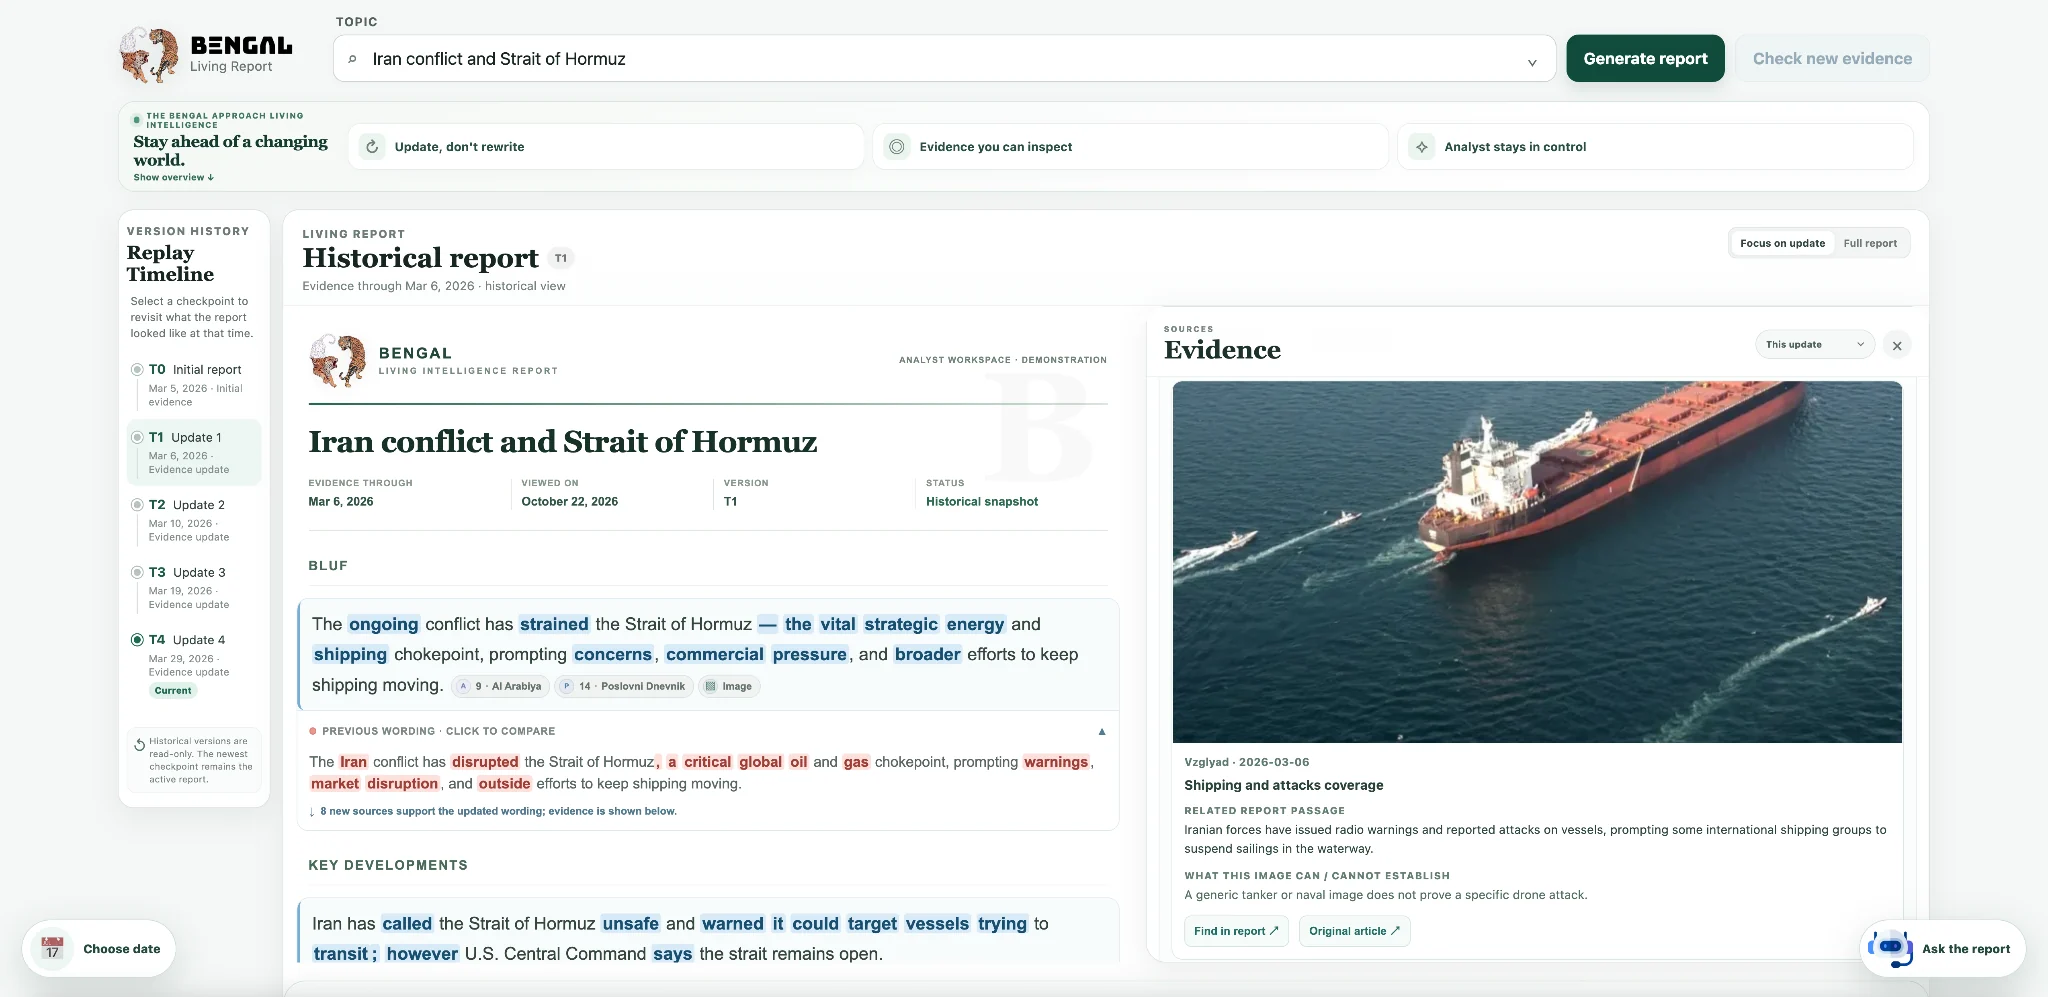
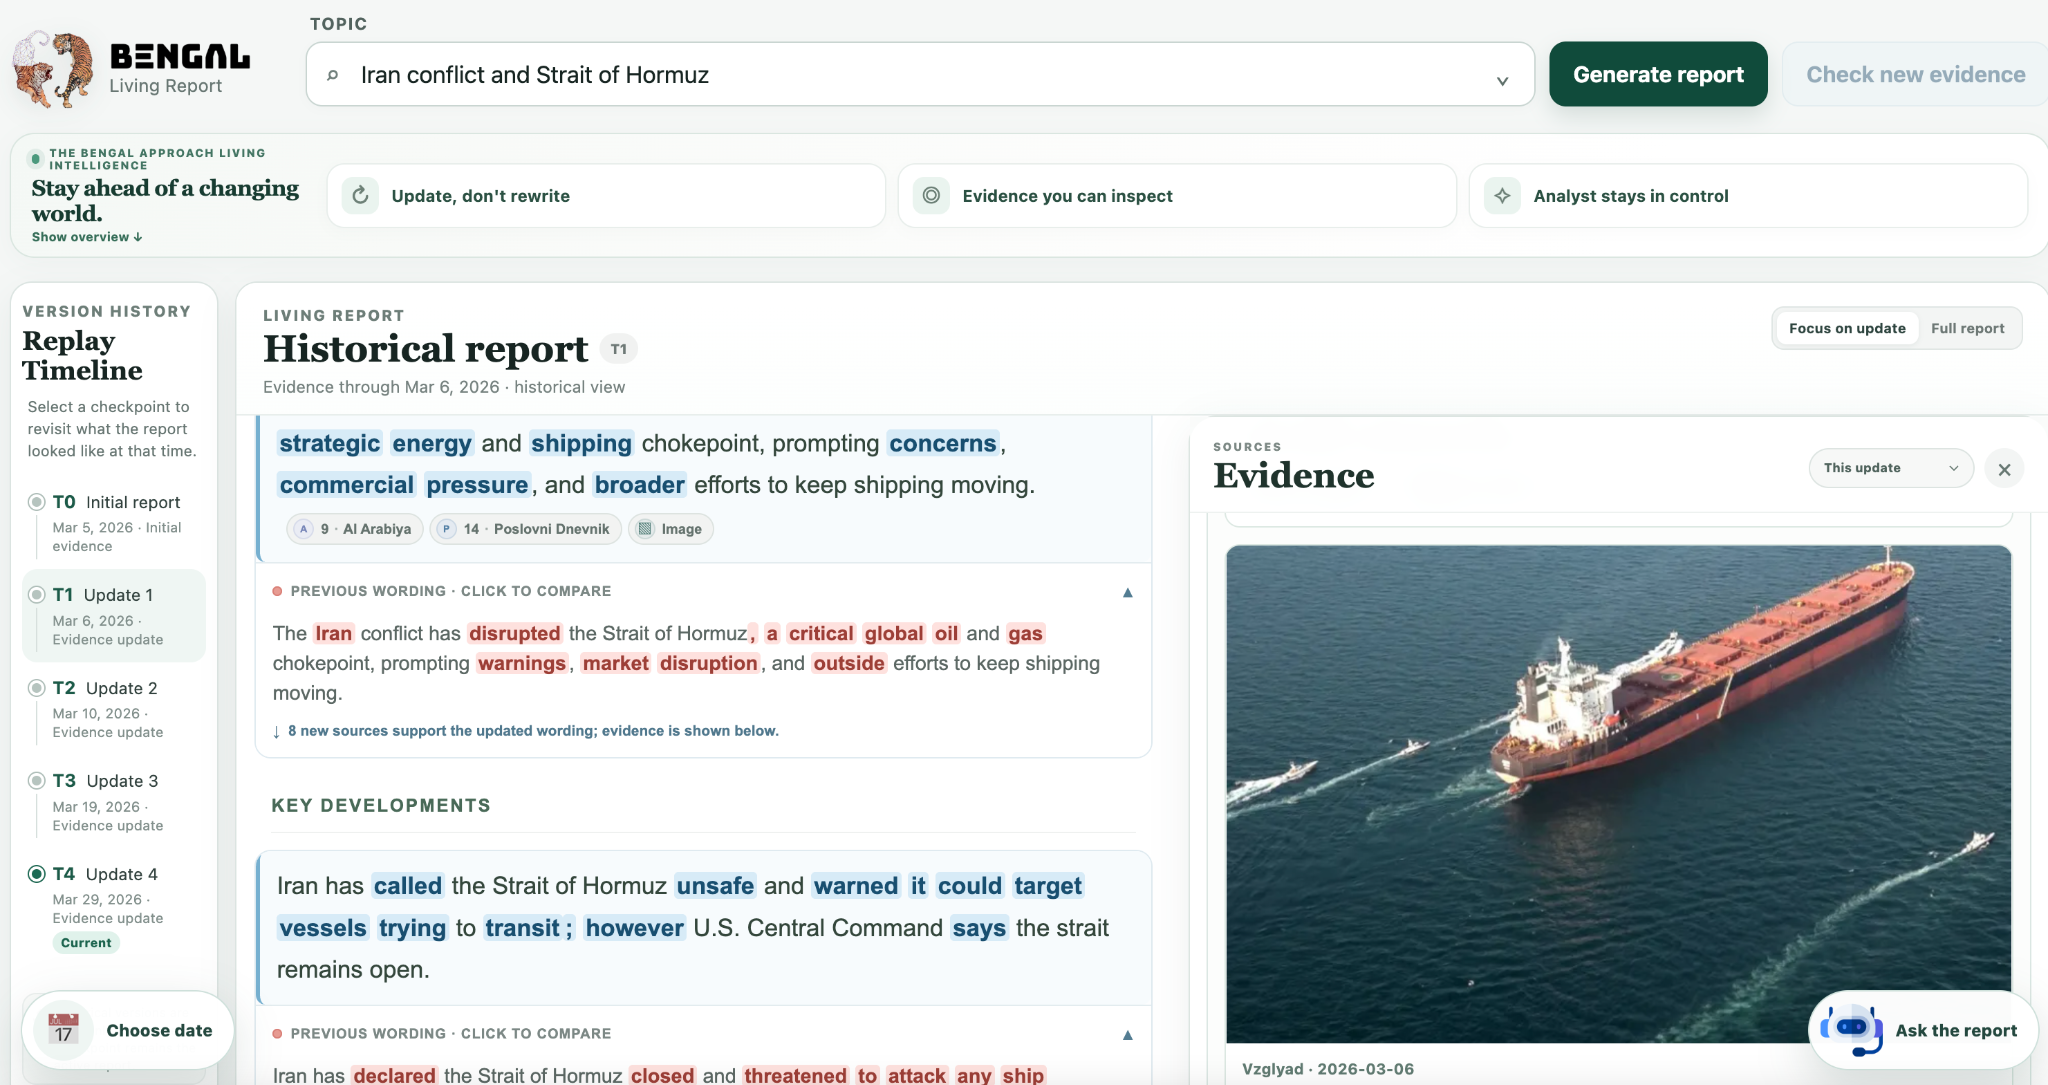
Refresh multilingual and multimodal demonstration screenshots

diff --git a/demo.html b/demo.html
@@ -1,4 +1,4 @@
-<!doctype html><html lang="en"><head><meta charset="utf-8"><meta name="viewport" content="width=device-width,initial-scale=1"><meta name="theme-color" content="#f5f5f0"><meta name="description" content="A guided visual tour of the CEDAR Living Report research demonstration."><title>Living Report / Demo — BENGAL · CEDAR</title><link rel="icon" href="./assets/identity/favicon.png"><link rel="preconnect" href="https://fonts.googleapis.com"><link rel="preconnect" href="https://fonts.gstatic.com" crossorigin><link href="https://fonts.googleapis.com/css2?family=DM+Sans:wght@400;500;600;700&family=IBM+Plex+Mono:wght@400;500;600&family=Newsreader:opsz,wght@6..72,400;6..72,500;6..72,600&display=swap" rel="stylesheet"><link rel="stylesheet" href="./styles.css"><link rel="stylesheet" href="./v2.css?v=2.8.0"><script defer src="./script.js?v=2.10.0"></script><script defer src="./tour.js?v=2.9.0"></script></head><body class="demo-page"><div id="scroll-progress" class="scroll-progress" aria-hidden="true"></div><a class="skip-link" href="#main">Skip to content</a><header class="site-header cedar-header" id="top"><div class="page-width nav-inner"><a class="cedar-brand" href="./index.html" aria-label="CEDAR research home"><img src="./assets/identity/bengal-wordmark.png" width="379" height="86" alt="BENGAL"><span class="brand-divider" aria-hidden="true"></span><span class="brand-cedar">CEDAR<span class="brand-tiny">RESEARCH TEAM</span></span></a><nav class="cedar-main-nav" aria-label="Main navigation"><a href="./index.html">Research</a><a class="active" href="./demo.html" aria-current="page">Demonstration</a></nav><a class="nav-cta cedar-nav-cta" href="./index.html">← Research home</a></div></header><main id="main"><section aria-labelledby="opening-title" class="demo-intro" id="overview">
+<!doctype html><html lang="en"><head><meta charset="utf-8"><meta name="viewport" content="width=device-width,initial-scale=1"><meta name="theme-color" content="#f5f5f0"><meta name="description" content="A guided visual tour of the CEDAR Living Report research demonstration."><title>Living Report / Demo — BENGAL · CEDAR</title><link rel="icon" href="./assets/identity/favicon.png"><link rel="preconnect" href="https://fonts.googleapis.com"><link rel="preconnect" href="https://fonts.gstatic.com" crossorigin><link href="https://fonts.googleapis.com/css2?family=DM+Sans:wght@400;500;600;700&family=IBM+Plex+Mono:wght@400;500;600&family=Newsreader:opsz,wght@6..72,400;6..72,500;6..72,600&display=swap" rel="stylesheet"><link rel="stylesheet" href="./styles.css"><link rel="stylesheet" href="./v2.css?v=2.8.0"><script defer src="./script.js?v=2.10.0"></script><script defer src="./tour.js?v=2.9.1"></script></head><body class="demo-page"><div id="scroll-progress" class="scroll-progress" aria-hidden="true"></div><a class="skip-link" href="#main">Skip to content</a><header class="site-header cedar-header" id="top"><div class="page-width nav-inner"><a class="cedar-brand" href="./index.html" aria-label="CEDAR research home"><img src="./assets/identity/bengal-wordmark.png" width="379" height="86" alt="BENGAL"><span class="brand-divider" aria-hidden="true"></span><span class="brand-cedar">CEDAR<span class="brand-tiny">RESEARCH TEAM</span></span></a><nav class="cedar-main-nav" aria-label="Main navigation"><a href="./index.html">Research</a><a class="active" href="./demo.html" aria-current="page">Demonstration</a></nav><a class="nav-cta cedar-nav-cta" href="./index.html">← Research home</a></div></header><main id="main"><section aria-labelledby="opening-title" class="demo-intro" id="overview">
 <div class="page-width demo-intro-inner">
 <div class="demo-overline"><span class="signal-dot"></span> CEDAR / INTEGRATED RESEARCH DEMONSTRATION <span>FIELD GUIDE — 2026</span></div>
 <div class="demo-intro-grid">
@@ -49,7 +49,7 @@
 <div class="chapter-heading reveal"><h2 id="beyond-title">Across languages.<br/><em>Back to the original.</em></h2><p>Arabic-language sources stay connected to the English report.</p></div>
 <div class="language-feature reveal">
 <div class="language-caption"><span class="language-number">01 / LANGUAGE</span><h3>Original source. Clear provenance.</h3><p>The Ceuta example pairs dialectal Arabic evidence with English report updates.</p><div class="language-meta"><span>CEUTA / MAY 2021</span><span>ARABIC ↗ ENGLISH</span></div></div>
-<div class="language-visual"><div class="figure-topline"><span>FIG. 03 / MULTILINGUAL REPORT</span><span>ORIGINAL LANGUAGE ↔ ENGLISH SUMMARY</span></div><button aria-label="Enlarge multilingual evidence demonstration screenshot" class="image-button" data-caption="The Ceuta migration report with multilingual source material and selective revisions." data-full-image="./assets/screenshots/p04_2.webp" type="button"><img alt="Ceuta migration: BENGAL report with revisions and Arabic-language source evidence" height="996" loading="lazy" src="./assets/screenshots/p04_2.webp" width="2048"/></button></div>
+<div class="language-visual"><div class="figure-topline"><span>FIG. 03 / MULTILINGUAL REPORT</span><span>ORIGINAL LANGUAGE ↔ ENGLISH SUMMARY</span></div><button aria-label="Enlarge multilingual evidence demonstration screenshot" class="image-button" data-caption="The Ceuta migration report with multilingual source material and selective revisions." data-full-image="./assets/screenshots/p04_2.webp?v=20261105-hd-refresh" type="button"><img alt="Ceuta migration: BENGAL report with revisions and Arabic-language source evidence" height="1085" loading="lazy" src="./assets/screenshots/p04_2.webp?v=20261105-hd-refresh" width="2048"/></button></div>
 </div>
 </div>
 </section>
@@ -57,8 +57,8 @@
 <div class="page-width">
 <div class="section-index section-index-light"><span>05</span><span>MULTIMODAL EVIDENCE</span></div>
 <div class="visual-opening reveal"><div><div class="visual-kicker"><span class="visual-spark"></span> IMAGES · CONTEXT · EVIDENCE</div><h2 id="visual-title">The picture is part<br/>of the story.<br/><em>Not the whole story.</em></h2></div><p>Source-linked images support inspection—not automatic proof.</p></div>
-<div class="visual-showcase reveal"><div class="visual-panel-main"><div class="visual-panel-meta"><span>01 / VISUAL CONTEXT</span><span>IMAGE-ASSOCIATED REPORT</span></div><button aria-label="Enlarge visual evidence workspace" class="image-button" data-caption="A report and its source-associated maritime image, presented together in the BENGAL evidence workspace." data-full-image="./assets/screenshots/p01_1.webp" type="button"><img alt="BENGAL report showing a ship photograph and contextual evidence in the evidence panel" height="997" loading="lazy" src="./assets/screenshots/p01_1.webp" width="2048"/></button></div>
-<div class="visual-panel-secondary"><div class="visual-panel-meta"><span>02 / GEOSPATIAL CONTEXT</span><span>INSPECTABLE MAP</span></div><button aria-label="Enlarge map and report screenshot" class="image-button" data-caption="Geospatial visual context displayed beside the Strait of Hormuz report." data-full-image="./assets/screenshots/p05_2.webp" type="button"><img alt="Maritime map evidence view next to the Iran conflict report" height="949" loading="lazy" src="./assets/screenshots/p05_2.webp" width="2048"/></button></div></div>
+<div class="visual-showcase reveal"><div class="visual-panel-main"><div class="visual-panel-meta"><span>01 / VISUAL CONTEXT</span><span>IMAGE-ASSOCIATED REPORT</span></div><button aria-label="Enlarge visual evidence workspace" class="image-button" data-caption="A report and its source-associated maritime image, presented together in the BENGAL evidence workspace." data-full-image="./assets/screenshots/p01_1.webp?v=20261105-hd-refresh" type="button"><img alt="BENGAL report showing a ship photograph and contextual evidence in the evidence panel" height="1085" loading="lazy" src="./assets/screenshots/p01_1.webp?v=20261105-hd-refresh" width="2048"/></button></div>
+<div class="visual-panel-secondary"><div class="visual-panel-meta"><span>02 / GEOSPATIAL CONTEXT</span><span>INSPECTABLE MAP</span></div><button aria-label="Enlarge map and report screenshot" class="image-button" data-caption="Geospatial visual context displayed beside the Strait of Hormuz report." data-full-image="./assets/screenshots/p05_2.webp?v=20261105-hd-refresh" type="button"><img alt="Maritime map evidence view next to the Iran conflict report" height="1062" loading="lazy" src="./assets/screenshots/p05_2.webp?v=20261105-hd-refresh" width="1264"/></button></div></div>
 <div class="visual-bottomline reveal"><div><span>INSPECTION, NOT ASSUMPTION</span><p>Inspect provenance, timing and what the image can actually establish.</p></div><span aria-hidden="true" class="visual-corner-mark">↗</span></div>
 </div>
 </section>

diff --git a/tour.js b/tour.js
@@ -12,7 +12,7 @@ const steps=[
 
  {eyebrow:'SOURCE INSPECTION',title:'Open the original evidence.',desc:'Read provenance, linked statements, and highlighted source text.',target:'.evidence-visual .image-button',region:[.035,.16,.93,.78],shot:'tour_hormuz_open.png',figure:'.evidence-visual .image-button'},
 
- {eyebrow:'BEYOND ENGLISH',title:'Sources are not limited to English.',desc:'An Arabic source appears beside the Ceuta report.',target:'.language-visual .image-button',region:[.585,.78,.38,.16],shot:'tour_ceuta_report.png',figure:'.language-visual .image-button'},
+ {eyebrow:'BEYOND ENGLISH',title:'Sources are not limited to English.',desc:'An Arabic source appears beside the Ceuta report.',target:'.language-visual .image-button',region:[.585,.585,.385,.13],shot:'p04_2.webp?v=20261105-hd-refresh',figure:'.language-visual .image-button'},
 
  {eyebrow:'SOURCE TO SUMMARY',title:'Follow the multilingual evidence into the report.',desc:'The source remains linked to the specific statement it supports.',target:'.language-visual .image-button',region:[.035,.205,.93,.155],shot:'tour_ceuta_open.png',arrow:true,figure:'.language-visual .image-button'},
 
@@ -28,7 +28,7 @@ const steps=[
 
  {eyebrow:'INCORPORATE',title:'The analyst makes the final decision.',desc:'Only approved information enters the living report.',target:'#dialogue-image-button',region:[.195,.811,.78,.165],dialogue:'incorporate',figure:'#dialogue-image-button'}
 ];
-document.documentElement.dataset.cedarTourVersion='2.9.0';
+document.documentElement.dataset.cedarTourVersion='2.9.1';
 const layer=document.getElementById('tour-layer');
 const focus=document.getElementById('tour-focus');const ring=document.getElementById('tour-ring');const card=document.getElementById('tour-card');
 const count=document.getElementById('tour-count');const eyebrow=document.getElementById('tour-eyebrow');const heading=document.getElementById('tour-heading');const copy=document.getElementById('tour-copy');
